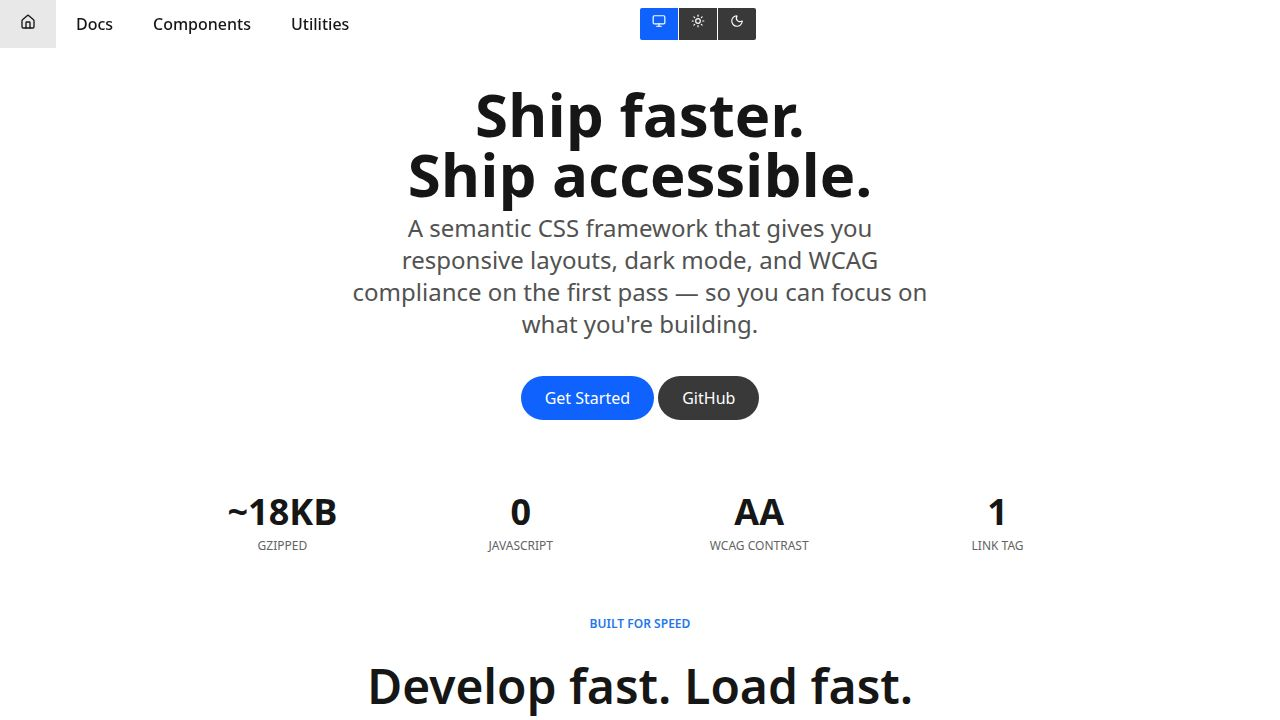
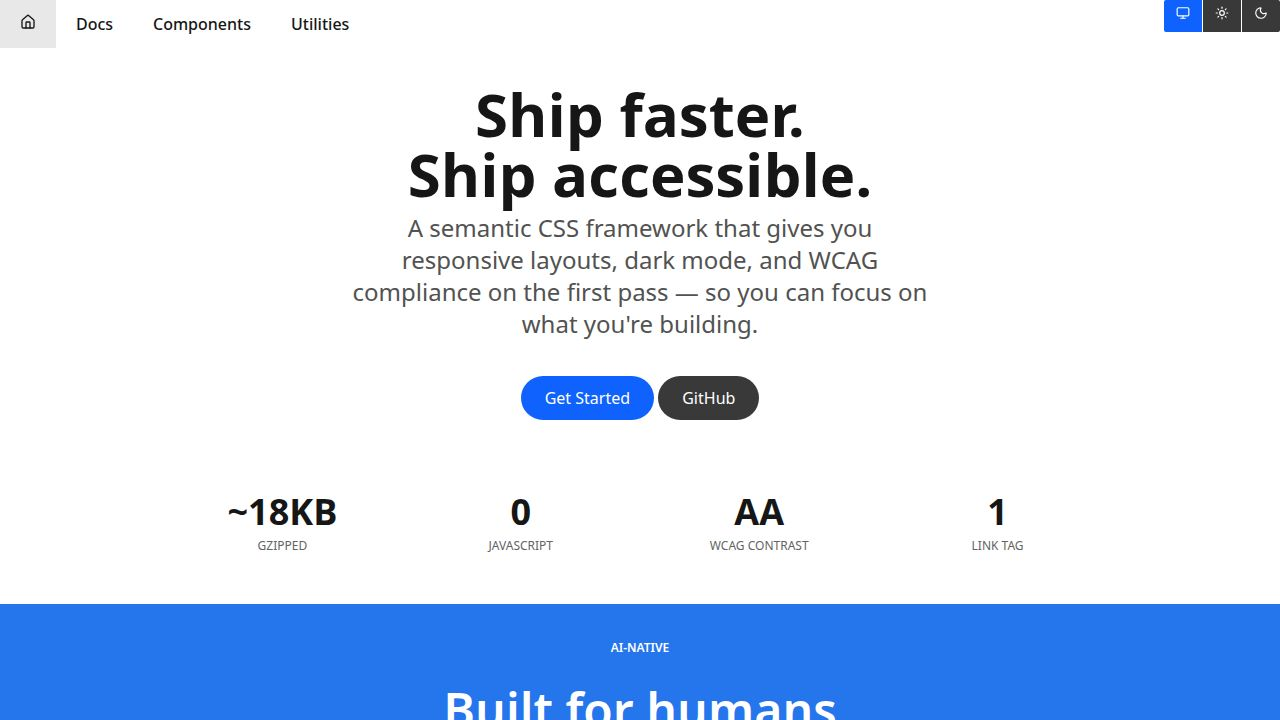
Task #1: Slim landing page & add Get Started page
Streamlined the Home page from 6+ scrollable sections to 4 focused sections:
- Hero (unchanged, CTA now links to /get-started instead of /grid)
- Stats bar (unchanged)
- AI-native blue section with 3 white cards (kept from before, refined copy)
- Single row of 3 pillar cards: Just CSS, 18KB Total, WCAG AA Free
  (replaces the 3 separate Composable/Built for Speed/AI detail sections)
- "Explore the docs" 6-card feature grid (kept)
- Footer (unchanged)

Created new /get-started page (GetStartedPage.tsx):
- Two-paths cards: CDN vs Sass with quickstart code snippets
- "For AI agents" section with PLY.md copy instructions
- "What you get" summary with two-column feature list
- Links to Grid, Controls, Typography pages for next steps

Updated routing and navigation:
- Added /get-started route in App.tsx
- Updated Layout.tsx sidebar: "Introduction" → "Get Started" under
  "Getting Started" section, path changed to /get-started
- Hero "Get Started" CTA now links to /get-started

Updated replit.md to reflect new page count (7 pages), new home page
flow, and Get Started page description.

diff --git a/artifacts/web/src/pages/Home.tsx b/artifacts/web/src/pages/Home.tsx
@@ -2,7 +2,7 @@ import { Link } from "wouter";
 import {
   Cpu, Accessibility, Feather,
   LayoutGrid, Type, ToggleLeft, Compass, Table2, Wrench,
-  Zap, Smartphone, Keyboard, Globe, Puzzle, BarChart3
+  Zap, Keyboard, Globe, Puzzle
 } from "lucide-react";
 
 export default function Home() {
@@ -19,7 +19,7 @@ export default function Home() {
               </p>
 
               <div className="padding-top">
-                <Link href="/grid" className="btn btn-blue">Get Started</Link>
+                <Link href="/get-started" className="btn btn-blue">Get Started</Link>
                 {" "}
                 <a href="https://github.com/thatgibbyguy/ply" target="_blank" rel="noopener noreferrer" className="btn">GitHub</a>
               </div>
@@ -62,9 +62,9 @@ export default function Home() {
               <p className="text-xs font-semibold uppercase text-inverse">AI-native</p>
               <h2 className="text-balance text-inverse">Built for humans and machines</h2>
               <p className="text-inverse no-orphan">
-                ply ships with PLY.md and ply-classes.json — a complete class reference
-                any coding agent can read. The same readable names that help you
-                also help AI generate correct UI on the first try.
+                ply ships with PLY.md — a complete class reference any coding agent
+                can read. One file in your context window and your AI writes correct,
+                accessible UI on the first try.
               </p>
             </div>
           </div>
@@ -75,30 +75,30 @@ export default function Home() {
                 <div className="unit-33 phone-unit-100 bottom-margin">
                   <div className="background-white border-radius padding text-center">
                     <Cpu size={28} className="color-blue display--inline-block bottom-margin" />
-                    <h3 className="text-lg font-semibold">Machine-Readable Docs</h3>
+                    <h3 className="text-lg font-semibold">One-File Reference</h3>
                     <p className="text-sm text-secondary no-orphan no-margin">
-                      PLY.md is designed for LLM context windows. Every class, every
-                      modifier, every responsive prefix — documented for agents.
+                      PLY.md fits in a single LLM context window. Every class,
+                      modifier, and responsive prefix — no doc-searching required.
                     </p>
                   </div>
                 </div>
                 <div className="unit-33 phone-unit-100 bottom-margin">
                   <div className="background-white border-radius padding text-center">
                     <Zap size={28} className="color-blue display--inline-block bottom-margin" />
-                    <h3 className="text-lg font-semibold">Semantic Names</h3>
+                    <h3 className="text-lg font-semibold">Obvious Names</h3>
                     <p className="text-sm text-secondary no-orphan no-margin">
-                      <code>unit-50</code> means 50%. <code>btn-blue</code> means a blue button.
-                      No shorthand to memorize, no ambiguity to resolve.
+                      <code>unit-50</code> = 50%. <code>btn-blue</code> = blue button.
+                      No shorthand to memorize, no ambiguity to hallucinate.
                     </p>
                   </div>
                 </div>
                 <div className="unit-33 phone-unit-100 bottom-margin">
                   <div className="background-white border-radius padding text-center">
                     <Keyboard size={28} className="color-blue display--inline-block bottom-margin" />
-                    <h3 className="text-lg font-semibold">Predictable Output</h3>
+                    <h3 className="text-lg font-semibold">~200 Classes</h3>
                     <p className="text-sm text-secondary no-orphan no-margin">
-                      Ratio-based classes produce consistent results whether
-                      a human or an AI writes the markup.
+                      Small surface area means fewer wrong answers.
+                      Humans and agents pick the right class on the first try.
                     </p>
                   </div>
                 </div>
@@ -111,130 +111,36 @@ export default function Home() {
       <div className="units-container">
         <section className="padding-top--extra padding-bottom--extra">
           <div className="units-row centered-content">
-            <div className="unit-50 phone-unit-100 text-center">
-              <p className="text-xs font-semibold uppercase color-blue">Composable</p>
-              <h2 className="text-balance">Bring your own everything</h2>
-              <p className="text-secondary no-orphan">
-                ply handles layout, typography, and controls. You pick the icon library,
-                the charting library, the JS framework. It stays out of your way.
-              </p>
-            </div>
-          </div>
-
-          <div className="units-row centered-content padding-top--extra">
-            <div className="unit-80 phone-unit-100">
-              <div className="units-row">
-                <div className="unit-33 phone-unit-100 text-center bottom-margin padding">
-                  <Puzzle size={28} className="color-blue display--inline-block bottom-margin" />
-                  <h3 className="text-lg font-semibold">Any Icon Library</h3>
-                  <p className="text-sm text-secondary no-orphan no-margin">
-                    Lucide, Feather, Heroicons, Font Awesome — ply doesn't ship icons,
-                    so you're never locked into one set.
-                  </p>
-                </div>
-                <div className="unit-33 phone-unit-100 text-center bottom-margin padding">
-                  <BarChart3 size={28} className="color-blue display--inline-block bottom-margin" />
-                  <h3 className="text-lg font-semibold">Any Data Library</h3>
-                  <p className="text-sm text-secondary no-orphan no-margin">
-                    Recharts, D3, Chart.js — drop in any visualization library.
-                    ply's grid gives it structure without fighting your styles.
-                  </p>
-                </div>
-                <div className="unit-33 phone-unit-100 text-center bottom-margin padding">
-                  <Globe size={28} className="color-blue display--inline-block bottom-margin" />
-                  <h3 className="text-lg font-semibold">Any Framework</h3>
-                  <p className="text-sm text-secondary no-orphan no-margin">
-                    React, Vue, Svelte, plain HTML — ply is just CSS.
-                    No JavaScript opinions, no framework coupling.
-                  </p>
-                </div>
-              </div>
-            </div>
-          </div>
-        </section>
-
-        <section className="padding-top--extra padding-bottom--extra">
-          <div className="units-row centered-content">
-            <div className="unit-50 phone-unit-100 text-center">
-              <p className="text-xs font-semibold uppercase color-blue">Built for speed</p>
-              <h2 className="text-balance">Develop fast. Load fast.</h2>
-              <p className="text-secondary no-orphan">
-                Readable class names mean less time in the docs. Semantic HTML means
-                tablet, phone, screen reader, and keyboard support is done on your first pass —
-                not bolted on later.
-              </p>
-            </div>
-          </div>
-
-          <div className="units-row centered-content padding-top--extra">
-            <div className="unit-80 phone-unit-100">
-              <div className="units-row">
-                <div className="unit-33 phone-unit-100 text-center bottom-margin padding">
-                  <Smartphone size={28} className="color-blue display--inline-block bottom-margin" />
-                  <h3 className="text-lg font-semibold">Multi-Modal First</h3>
-                  <p className="text-sm text-secondary no-orphan no-margin">
-                    Responsive breakpoints, dark mode, reduced motion, and keyboard
-                    navigation — all built in, not afterthoughts.
-                  </p>
-                </div>
-                <div className="unit-33 phone-unit-100 text-center bottom-margin padding">
-                  <Accessibility size={28} className="color-blue display--inline-block bottom-margin" />
-                  <h3 className="text-lg font-semibold">Accessible by Default</h3>
-                  <p className="text-sm text-secondary no-orphan no-margin">
-                    Focus-visible outlines, semantic markup, and WCAG AA contrast
-                    baked into the CSS itself. Ship compliant from day one.
-                  </p>
-                </div>
-                <div className="unit-33 phone-unit-100 text-center bottom-margin padding">
-                  <Feather size={28} className="color-blue display--inline-block bottom-margin" />
-                  <h3 className="text-lg font-semibold">Small Footprint</h3>
-                  <p className="text-sm text-secondary no-orphan no-margin">
-                    ~18KB gzipped. No JavaScript runtime. Perfect for low-bandwidth
-                    connections and offline-capable apps.
-                  </p>
-                </div>
-              </div>
-            </div>
-          </div>
-        </section>
-
-        <section className="padding-top--extra padding-bottom--extra">
-          <div className="units-row centered-content">
-            <div className="unit-80 phone-unit-100 text-center">
-              <p className="text-xs font-semibold uppercase color-blue">Get started</p>
-              <h2 className="text-balance">Two paths, one framework</h2>
-            </div>
-          </div>
-
-          <div className="units-row centered-content padding-top--extra">
             <div className="unit-80 phone-unit-100">
               <div className="units-row equal-height">
-                <div className="unit-50 phone-unit-100 bottom-margin">
-                  <div className="border-radius padding border">
-                    <p className="text-xs font-semibold uppercase color-blue no-margin">Prototype</p>
-                    <h3 className="text-lg font-semibold">CDN</h3>
-                    <p className="text-sm text-secondary no-orphan">
-                      One link tag. No install, no build step. Great for wireframing ideas
-                      and apps that need to support low bandwidth or offline mode.
+                <div className="unit-33 phone-unit-100 bottom-margin">
+                  <div className="border border-radius padding text-center">
+                    <Puzzle size={28} className="color-blue display--inline-block bottom-margin" />
+                    <h3 className="text-lg font-semibold">Just CSS</h3>
+                    <p className="text-sm text-secondary no-orphan no-margin">
+                      No JavaScript runtime. Works with React, Vue, Svelte, or plain HTML.
+                      Bring your own icons, charts, and framework.
                     </p>
-                    <p className="text-sm no-margin">
-                      <code>plygrid@1/dist/css/ply.min.css</code>
-                    </p>
-                    <p className="text-xs text-muted no-margin">via jsdelivr CDN</p>
                   </div>
                 </div>
-                <div className="unit-50 phone-unit-100 bottom-margin">
-                  <div className="border-radius padding border">
-                    <p className="text-xs font-semibold uppercase color-blue no-margin">Customize</p>
-                    <h3 className="text-lg font-semibold">Sass</h3>
-                    <p className="text-sm text-secondary no-orphan">
-                      Full access to color variables, mixins, and the ability to extend
-                      ply at the Sass level. For when you're building a real product.
+                <div className="unit-33 phone-unit-100 bottom-margin">
+                  <div className="border border-radius padding text-center">
+                    <Feather size={28} className="color-blue display--inline-block bottom-margin" />
+                    <h3 className="text-lg font-semibold">18KB Total</h3>
+                    <p className="text-sm text-secondary no-orphan no-margin">
+                      The entire framework gzipped. Dark mode, responsive grid,
+                      typography, forms, and nav — nothing to tree-shake.
                     </p>
-                    <p className="text-sm no-margin">
-                      <code>npm install plygrid</code>
+                  </div>
+                </div>
+                <div className="unit-33 phone-unit-100 bottom-margin">
+                  <div className="border border-radius padding text-center">
+                    <Accessibility size={28} className="color-blue display--inline-block bottom-margin" />
+                    <h3 className="text-lg font-semibold">WCAG AA Free</h3>
+                    <p className="text-sm text-secondary no-orphan no-margin">
+                      Focus outlines, semantic markup, and contrast ratios
+                      baked into the CSS. Ship compliant from your first div.
                     </p>
-                    <p className="text-xs text-muted no-margin">then import the Sass source</p>
                   </div>
                 </div>
               </div>
@@ -245,8 +151,7 @@ export default function Home() {
         <section className="padding-top--extra padding-bottom--extra">
           <div className="units-row centered-content">
             <div className="unit-50 phone-unit-100 text-center">
-              <p className="text-xs font-semibold uppercase color-blue">Explore</p>
-              <h2 className="text-balance">Everything you need</h2>
+              <h2 className="text-balance">Explore the docs</h2>
               <p className="text-secondary no-orphan">
                 A complete design system in a single stylesheet.
               </p>

diff --git a/artifacts/web/src/pages/GetStartedPage.tsx b/artifacts/web/src/pages/GetStartedPage.tsx
@@ -1,0 +1,90 @@
+import { Link } from "wouter";
+
+export default function GetStartedPage() {
+  return (
+    <>
+      <h1>Get Started</h1>
+      <p className="text-secondary text-lg no-orphan">
+        Two ways to use ply. Pick whichever fits your project.
+      </p>
+
+      <div className="units-row equal-height padding-top--extra">
+        <div className="unit-50 phone-unit-100 bottom-margin">
+          <div className="border border-radius padding">
+            <p className="text-xs font-semibold uppercase color-blue no-margin">Prototype</p>
+            <h2 className="text-xl font-semibold">CDN</h2>
+            <p className="text-secondary no-orphan">
+              One link tag. No install, no build step. Great for wireframing ideas
+              and apps that need to support low bandwidth or offline mode.
+            </p>
+            <p className="text-sm">Add this to your <code>&lt;head&gt;</code>:</p>
+            <pre><code>&lt;link rel="stylesheet"{"\n"}  href="https://cdn.jsdelivr.net/npm/plygrid@1/dist/css/ply.min.css"&gt;</code></pre>
+            <p className="text-sm text-secondary no-orphan">
+              That's it. You now have the grid, typography, buttons, forms, tables,
+              navigation, dark mode, and WCAG AA contrast.
+            </p>
+          </div>
+        </div>
+        <div className="unit-50 phone-unit-100 bottom-margin">
+          <div className="border border-radius padding">
+            <p className="text-xs font-semibold uppercase color-blue no-margin">Customize</p>
+            <h2 className="text-xl font-semibold">Sass</h2>
+            <p className="text-secondary no-orphan">
+              Full access to color variables, mixins, and the ability to extend
+              ply at the Sass level. For when you're building a real product.
+            </p>
+            <p className="text-sm">Install and import:</p>
+            <pre><code>npm install plygrid</code></pre>
+            <p className="text-sm">Then in your main stylesheet:</p>
+            <pre><code>@use 'plygrid/src/scss/ply' as *;</code></pre>
+            <p className="text-sm text-secondary no-orphan">
+              This gives you all compiled classes plus Sass variables, color maps,
+              and mixins you can override.
+            </p>
+          </div>
+        </div>
+      </div>
+
+      <h2 className="padding-top--extra">For AI agents</h2>
+      <p className="text-secondary no-orphan">
+        If you're building with an AI coding agent, add <code>PLY.md</code> to your project root
+        or paste it into your prompt. It's a single-file reference of every ply class, designed
+        to fit in one context window.
+      </p>
+      <pre><code>cp node_modules/plygrid/PLY.md ./PLY.md</code></pre>
+      <p className="text-sm text-secondary no-orphan">
+        Your agent can also read <code>ply-classes.json</code> for a structured
+        machine-readable format.
+      </p>
+
+      <h2 className="padding-top--extra">What you get</h2>
+      <div className="units-row padding-top">
+        <div className="unit-50 phone-unit-100">
+          <ul>
+            <li>Ratio-based flexbox grid with responsive prefixes</li>
+            <li>Type scale from <code>text-xs</code> to <code>text-5xl</code></li>
+            <li>Buttons, button groups, and form controls</li>
+            <li>Navbar, pills, tabs, and breadcrumbs</li>
+          </ul>
+        </div>
+        <div className="unit-50 phone-unit-100">
+          <ul>
+            <li>Bordered, striped, and hoverable tables</li>
+            <li>Dark mode via <code>data-theme</code> attribute</li>
+            <li>WCAG AA contrast ratios on all colors</li>
+            <li>Print styles and reduced-motion support</li>
+          </ul>
+        </div>
+      </div>
+
+      <div className="padding-top--extra">
+        <p className="text-secondary">
+          Ready to build? Start with the{" "}
+          <Link href="/grid">grid system</Link>, or explore{" "}
+          <Link href="/controls">controls</Link> and{" "}
+          <Link href="/typography">typography</Link>.
+        </p>
+      </div>
+    </>
+  );
+}

diff --git a/artifacts/web/src/App.tsx b/artifacts/web/src/App.tsx
@@ -1,6 +1,7 @@
 import { Switch, Route, Router as WouterRouter } from "wouter";
 import Layout from "./components/Layout";
 import Home from "./pages/Home";
+import GetStartedPage from "./pages/GetStartedPage";
 import GridPage from "./pages/GridPage";
 import TypographyPage from "./pages/TypographyPage";
 import ControlsPage from "./pages/ControlsPage";
@@ -14,6 +15,7 @@ function Router() {
     <Layout>
       <Switch>
         <Route path="/" component={Home} />
+        <Route path="/get-started" component={GetStartedPage} />
         <Route path="/grid" component={GridPage} />
         <Route path="/typography" component={TypographyPage} />
         <Route path="/controls" component={ControlsPage} />

diff --git a/artifacts/web/src/components/Layout.tsx b/artifacts/web/src/components/Layout.tsx
@@ -4,7 +4,7 @@ import { Home, Sun, Moon, Monitor } from "lucide-react";
 
 const sections = [
   { label: "Getting Started", items: [
-    { path: "/", label: "Introduction" },
+    { path: "/get-started", label: "Get Started" },
   ]},
   { label: "Layout", items: [
     { path: "/grid", label: "Grid" },

diff --git a/replit.md b/replit.md
@@ -99,18 +99,20 @@ Utility scripts package. Each script is a `.ts` file in `src/` with a correspond
 
 Showcase site for the `plygrid` CSS framework (npm). Built with React + Vite. Swiss modernist design aesthetic.
 
-- **CSS Framework**: `plygrid@1.0.1` — ratio-based CSS grid framework. Import via `plygrid/dist/css/ply.min.css`. Reference: `artifacts/web/node_modules/plygrid/PLY.md`.
-- **Critical constraint**: Zero custom CSS and zero inline styles — exclusively plygrid classes throughout.
-- **Routing**: wouter, 6 pages — Home, Grid (/grid), Typography (/typography), Controls (/controls), Navigation (/navigation), Tables (/tables), Utilities (/utilities).
-- **Dark Mode**: `data-theme` attribute on `<html>`, managed by Home.tsx hero with icon-only toggle buttons (Monitor/Sun/Moon from lucide-react).
+- **CSS Framework**: `plygrid@1.0.2` — ratio-based CSS grid framework. Sass import via `@use 'plygrid/src/scss/ply' as *` in `index.scss`. Reference: `artifacts/web/node_modules/plygrid/PLY.md`.
+- **Critical constraint**: Zero custom CSS and zero inline styles — exclusively plygrid classes plus thin Sass wrappers in `index.scss` (background colors, `color-blue`, `margin-left-auto`).
+- **Routing**: wouter, 7 pages — Home, Get Started (/get-started), Grid (/grid), Typography (/typography), Controls (/controls), Navigation (/navigation), Tables (/tables), Utilities (/utilities).
+- **Dark Mode**: `data-theme` attribute on `<html>`, managed by Layout.tsx header with icon-only toggle buttons (Monitor/Sun/Moon from lucide-react).
 - **No backend dependencies** — pure frontend showcase.
 - **Key files**:
   - `src/App.tsx` — route definitions (wouter)
-  - `src/index.css` — single line: `@import "plygrid/dist/css/ply.min.css";`
+  - `src/index.scss` — Sass import of plygrid + thin utility wrappers (background colors, color-blue, margin-left-auto, code overrides for blue section)
   - `src/components/Layout.tsx` — shadcn-style layout: minimal top navbar (`navbar navbar--borderless`) with Home icon + Docs/Components/Utilities links; inner pages get left sidebar (unit-20) with grouped section nav + main content (unit-80); Home page has no sidebar. Mobile: `navigation-toggle` hamburger with `nav-stacked`.
   - `src/components/CodeBlock.tsx` — native `<pre><code>` (ply auto-styles)
-  - `src/pages/` — 6 content pages + Home + 404 (ControlsPage merges buttons/forms/alerts; UtilitiesPage merges helpers/theming)
+  - `src/pages/` — 7 content pages + Home + 404 (ControlsPage merges buttons/forms/alerts; UtilitiesPage merges helpers/theming)
+  - `src/pages/GetStartedPage.tsx` — Two paths (CDN vs Sass), AI agent instructions, and "what you get" summary
 - **Layout architecture**: Follows shadcn/ui pattern — minimal top nav, grouped sidebar for inner pages (Getting Started / Layout / Design / Components / Configuration sections), centered hero on Home.
+- **Home page flow**: Hero → Stats bar → AI-native (blue bg, white cards) → 3 pillar cards (Just CSS, 18KB, WCAG AA) → Explore the docs (6 link cards) → Footer
 - **Known plygrid v1.0.1 quirk**: `tablet-unit-100` is documented in PLY.md but NOT compiled into ply.min.css. Use `phone-unit-100` instead for full-width stacking on small screens.
 - **v1.0.1 features in use**:
   - `equal-height` on `units-row` for same-height card rows (replaces display--flex workaround)
